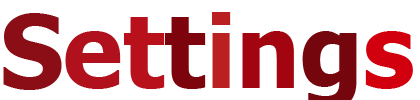
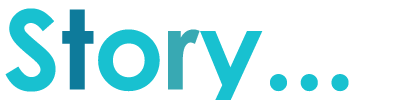
Story

diff --git a/src/Game.cpp b/src/Game.cpp
@@ -7,6 +7,7 @@
 #include "Player.h"
 #include "UiMain.h"
 #include "Enemy.h"
+#include "TextureBase.h"
 
 Game::Game() 
 {
@@ -61,8 +62,10 @@ void Game::init(const char* title, int xpos, int ypos, int width, int height, bo
 	
     Menu = new MainMenu("data/images/BackgroundMenu.png", "data/images/Play.png", "data/images/Settings.png", "data/images/Exit.png", renderer);
     classChoose = new ClassChoose(renderer);
-    gameOverScreen = new TitleScreen("Game Over", renderer);
-    winnerScreen = new TitleScreen("you did it", renderer);
+    TextureBase* GameTextures = TextureBase::Instance();
+    gameOverScreen = new TitleScreen("Game Over",GameTextures->GetTexture("RIP") , renderer);
+    winnerScreen = new TitleScreen("you did it",GameTextures->GetTexture("PapaDead") , renderer);
+    story = new TitleScreen("Story", GameTextures->GetTexture("Story"), renderer);
 }
 
 void Game::handleEvents()
@@ -76,6 +79,9 @@ void Game::handleEvents()
         }
         if (gameOverScreen->flag) {
             gameOverScreen->handleEvents(event);
+        }
+        if (story->flag) {
+            story->handleEvents(event);
         }
         if (winnerScreen->flag) {
             winnerScreen->handleEvents(event);
@@ -101,6 +107,7 @@ void Game::handleEvents()
 				}
 				if (InputManager::MouseInArea(640, 471, 420, 100, mouseCoord.x, mouseCoord.y))
 				{
+                    story->flag = true;
 					break;
 				}
 				if (InputManager::MouseInArea(640, 581, 250, 100, mouseCoord.x, mouseCoord.y))
@@ -138,6 +145,8 @@ void Game::update()
                 classChoose->choosedClass = 0;
                 gameOverScreen->flag = true;
             }
+        }
+        if(level) {
             if(level->BossDead) {
                 delete level;
                 level = nullptr;
@@ -169,6 +178,9 @@ void Game::render()
     }
     if (winnerScreen->flag) {
         winnerScreen->Render();
+    }
+    if (story->flag) {
+        story->Render();
     }
 	SDL_RenderPresent(renderer);
 }

diff --git a/src/Ui/TitleScreen.cpp b/src/Ui/TitleScreen.cpp
@@ -1,6 +1,6 @@
 #include "TitleScreen.h"
 
-TitleScreen::TitleScreen(const char* titleText, SDL_Renderer* renderer)
+TitleScreen::TitleScreen(const char* titleText, SDL_Texture* texture, SDL_Renderer* renderer)
 {
     auto Skip {
         [this]()
@@ -12,8 +12,10 @@ TitleScreen::TitleScreen(const char* titleText, SDL_Renderer* renderer)
     GameTextures = TextureBase::Instance();
     ren = renderer;
     titleTextTexture = FontManager::renderText(titleText, "data/fonts/manaspc.ttf", { 255, 255, 255, 255 }, 80, ren);
+    textureUnderTitle = texture;
     SkipButton = new Button("Left", GameTextures->GetTexture("Button"), ren, {1148, 638, 32, 32}, Skip, NULL, NULL);
     SDL_QueryTexture(titleTextTexture, NULL, NULL, &textW, &textH);
+    SDL_QueryTexture(textureUnderTitle, NULL, NULL, &textWunder, &textHunder);
 }
 
 TitleScreen::~TitleScreen() {
@@ -22,6 +24,9 @@ TitleScreen::~TitleScreen() {
 
 void TitleScreen::Render() {
     RenderManager::CopyToRender(GameTextures->GetTexture("PlayBack"), ren);
+    if(textureUnderTitle != nullptr) {
+        RenderManager::CopyToRender(textureUnderTitle, ren, {(1280-textWunder)/2, (720-textHunder)/2 + 100, textWunder, textHunder});
+    }
     RenderManager::CopyToRender(titleTextTexture, ren, {(1280-textW)/2, (720-textH)/2 - 200, textW, textH});
     SkipButton->Render();
 }

diff --git a/src/Ui/TitleScreen.h b/src/Ui/TitleScreen.h
@@ -8,13 +8,16 @@ class TitleScreen
 private:
     TextureBase*  GameTextures;
     SDL_Texture* titleTextTexture;
+    SDL_Texture* textureUnderTitle;
     SDL_Renderer* ren;
     Button* SkipButton;
     int textW;
     int textH;
+    int textWunder;
+    int textHunder;
 public:
     bool flag;
-    TitleScreen(const char* titleText, SDL_Renderer* ren);
+    TitleScreen(const char* titleText,SDL_Texture* texture, SDL_Renderer* ren);
     ~TitleScreen();
     void Render();
     void handleEvents(SDL_Event& event);

diff --git a/src/Game.h b/src/Game.h
@@ -39,6 +39,7 @@ private:
     ClassChoose* classChoose;
     TitleScreen* gameOverScreen;
     TitleScreen* winnerScreen;
+    TitleScreen* story;
 	UIInfo* uiLevel;
 public:
 	static SDL_Renderer* renderer;
